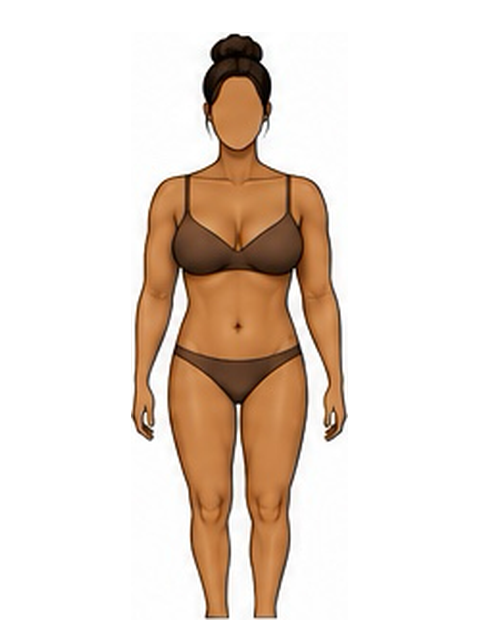
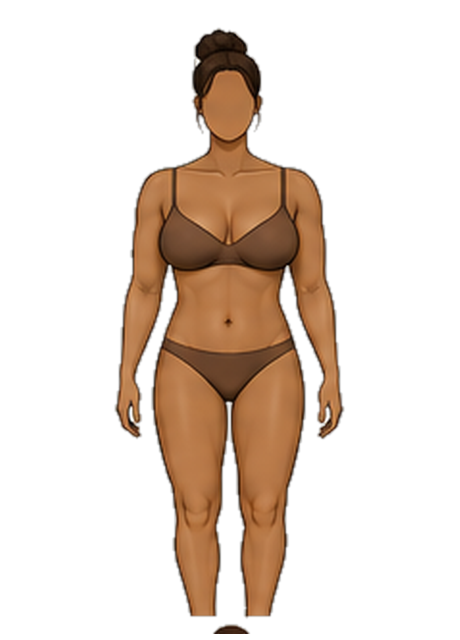
Quiz body types: swipeable carousel + transparent illustrations
Replace the per-item eye/popup with a looping, swipeable carousel so users flow
through all 12 shapes at once (arrows, drag/swipe, dots, keyboard), choosing in
one tap. A center figure shows large with faded neighbor peeks inviting the
swipe; name + description sit beneath; a Choose/Selected button confirms.

Swap the crude chart crops for the supplied high-res figures with the paper
background removed to transparent and normalized to a uniform height, so they
float cleanly on the page. Wording confirmed against the provided sheet.

Claude-Session: https://claude.ai/code/session_01D4oYevb7PMmvXhf1myVK1D

Changed region(s): [[0.2435, 0.0312, 0.7609, 1.0]]

diff --git a/suedesite/components/screens/QuizScreen.tsx b/suedesite/components/screens/QuizScreen.tsx
@@ -31,7 +31,7 @@ const PLUS_SIZES = ['1X', '2X', '3X', '4X', '5X'];
 
 // 12 reference body types (illustrations in /assets/bodytypes). `v` is the
 // proportional descriptor fed to the estimator; `s` is the card sub-label;
-// `desc` is the full description shown in the eyeball preview.
+// `desc` is the full description shown beneath the figure in the carousel.
 const FEMALE_BODY = [
   { v: 'small lean frame with a defined waist; bust and hips modest and balanced', l: 'Lean & defined', s: 'Small frame with a defined waist; modest, balanced bust & hips', img: '/assets/bodytypes/type-01.png', desc: 'Small frame with a defined waist. Bust and hips are modest and balanced.' },
   { v: 'full bust and hips with a defined waist; balanced, distinctly curvy hourglass proportions', l: 'Curvy & defined', s: 'Full bust and hips with a defined waist; balanced and curvy', img: '/assets/bodytypes/type-02.png', desc: 'Full bust and hips with a defined waist. Proportions are balanced and distinctly curvy.' },
@@ -114,6 +114,70 @@ function OptionCard({ active, onClick, label, sublabel }: any) {
   );
 }
 
+// Swipeable, looping gallery of the 12 body-type illustrations — flow through
+// them all with arrows / swipe / dots, then choose in one tap.
+function BodyCarousel({ items, selectedV, onSelect }: any) {
+  const n = items.length;
+  const [idx, setIdx] = React.useState(() => Math.max(0, items.findIndex((o: any) => o.v === selectedV)));
+  const [dir, setDir] = React.useState(1);
+  const drag = React.useRef<any>({ x: 0, active: false });
+  const go = (d: number) => { setDir(d); setIdx((i) => (i + d + n) % n); };
+  const jump = (i: number) => { setDir(i >= idx ? 1 : -1); setIdx(i); };
+
+  React.useEffect(() => { items.forEach((o: any) => { const im = new Image(); im.src = o.img; }); }, []); // eslint-disable-line
+  React.useEffect(() => {
+    const k = (e: any) => { if (e.key === 'ArrowLeft') go(-1); else if (e.key === 'ArrowRight') go(1); };
+    window.addEventListener('keydown', k);
+    return () => window.removeEventListener('keydown', k);
+  }, []); // eslint-disable-line
+
+  const down = (e: any) => { drag.current = { x: e.touches ? e.touches[0].clientX : e.clientX, active: true }; };
+  const up = (e: any) => {
+    if (!drag.current.active) return; drag.current.active = false;
+    const x = e.changedTouches ? e.changedTouches[0].clientX : e.clientX;
+    const dx = x - drag.current.x;
+    if (Math.abs(dx) > 40) go(dx < 0 ? 1 : -1);
+  };
+
+  const cur = items[idx], prev = items[(idx - 1 + n) % n], nxt = items[(idx + 1) % n];
+  const selected = cur.v === selectedV;
+  const noDrag = { draggable: false, onDragStart: (e: any) => e.preventDefault() } as any;
+  const arrow = (side: string): any => ({ position: 'absolute', top: '44%', [side]: 4, transform: 'translateY(-50%)', width: 44, height: 44, borderRadius: '50%', border: `1px solid ${ink(0.15)}`, background: 'var(--white)', cursor: 'pointer', display: 'inline-flex', alignItems: 'center', justifyContent: 'center', color: ink(0.55), zIndex: 3 });
+
+  return (
+    <div>
+      <style>{`@keyframes qfSlideL{from{opacity:0;transform:translateX(46px)}to{opacity:1;transform:translateX(0)}}@keyframes qfSlideR{from{opacity:0;transform:translateX(-46px)}to{opacity:1;transform:translateX(0)}}`}</style>
+      <div onMouseDown={down} onMouseUp={up} onTouchStart={down} onTouchEnd={up}
+        style={{ position: 'relative', height: 360, display: 'flex', alignItems: 'flex-end', justifyContent: 'center', userSelect: 'none', touchAction: 'pan-y', cursor: 'grab', overflow: 'hidden' }}>
+        <img {...noDrag} src={prev.img} alt="" aria-hidden onClick={() => go(-1)} style={{ position: 'absolute', left: '-5%', bottom: 0, height: 220, opacity: 0.2, cursor: 'pointer', zIndex: 0 }} />
+        <img {...noDrag} src={nxt.img} alt="" aria-hidden onClick={() => go(1)} style={{ position: 'absolute', right: '-5%', bottom: 0, height: 220, opacity: 0.2, cursor: 'pointer', zIndex: 0 }} />
+        <button onClick={() => go(-1)} aria-label="Previous body type" style={arrow('left')}><Icon name="arrow-left" size={18} color={ink(0.55)} /></button>
+        <button onClick={() => go(1)} aria-label="Next body type" style={arrow('right')}><Icon name="arrow-right" size={18} color={ink(0.55)} /></button>
+        <img {...noDrag} key={idx} src={cur.img} alt={cur.l}
+          style={{ position: 'relative', height: 344, zIndex: 1, filter: 'drop-shadow(0 22px 34px rgba(20,18,15,0.16))', animation: `${dir >= 0 ? 'qfSlideL' : 'qfSlideR'} .35s var(--ease-out)` }} />
+      </div>
+
+      <div style={{ textAlign: 'center', marginTop: 4 }}>
+        <div style={{ fontSize: 12, letterSpacing: '0.14em', color: ink(0.4) }}>{idx + 1} / {n}</div>
+        <h3 style={{ ...SERIF, fontSize: 26, fontWeight: 400, color: INK, margin: '8px 0 8px' }}>{cur.l}</h3>
+        <p style={{ fontSize: 14, lineHeight: 1.6, color: ink(0.6), margin: '0 auto', maxWidth: 360 }}>{cur.desc}</p>
+      </div>
+
+      <div style={{ display: 'flex', justifyContent: 'center', gap: 7, flexWrap: 'wrap', margin: '18px 0 4px' }}>
+        {items.map((o: any, i: number) => (
+          <button key={i} onClick={() => jump(i)} aria-label={o.l} title={o.l}
+            style={{ width: i === idx ? 22 : 8, height: 8, borderRadius: 999, border: 'none', padding: 0, cursor: 'pointer', background: i === idx ? INK : ink(0.2), transition: 'all var(--dur-base) var(--ease-out)' }} />
+        ))}
+      </div>
+
+      <button onClick={() => onSelect(cur.v)}
+        style={{ width: '100%', marginTop: 18, padding: '16px 24px', border: `1px solid ${INK}`, background: selected ? INK : 'var(--white)', color: selected ? 'var(--white)' : INK, cursor: 'pointer', fontFamily: 'var(--font-body)', fontSize: 13, letterSpacing: '0.15em', textTransform: 'uppercase', display: 'inline-flex', alignItems: 'center', justifyContent: 'center', gap: 10, transition: 'all var(--dur-base) var(--ease-out)' }}>
+        {selected ? <>Selected <Icon name="check" size={16} color="var(--white)" /></> : 'Choose this body type'}
+      </button>
+    </div>
+  );
+}
+
 const Eyebrow = ({ children }: any) => (
   <div style={{ fontSize: 11, letterSpacing: '0.25em', color: ink(0.5), textTransform: 'uppercase', marginBottom: 12 }}>{children}</div>
 );
@@ -141,15 +205,7 @@ export function QuizScreen({ onRoute, authed }: any) {
   const [error, setError] = React.useState<any>(null);
   const [results, setResults] = React.useState<any>(null);
   const [saveStatus, setSaveStatus] = React.useState('idle');
-  const [preview, setPreview] = React.useState<any>(null); // body-type illustration popup
   const fileRef = React.useRef<any>(null);
-
-  React.useEffect(() => {
-    if (!preview) return;
-    const onKey = (e: any) => { if (e.key === 'Escape') setPreview(null); };
-    window.addEventListener('keydown', onKey);
-    return () => window.removeEventListener('keydown', onKey);
-  }, [preview]);
 
   const update = (k, v) => setA((p) => ({ ...p, [k]: v }));
   const toggleMulti = (k, val) => setA((p) => {
@@ -453,22 +509,16 @@ Respond ONLY with a valid JSON object in this exact format, no markdown, no prea
 
           {!loading && !error && stepName === 'body-type' && (
             <div className="qf-fade" style={{ display: 'flex', flexDirection: 'column', gap: 32 }}>
-              <div><Eyebrow>{stepNum('body-type')} — Your body</Eyebrow><H2 mb={12}>Your body type</H2><Sub>Pick the one that best captures both your shape and overall feel.{a.sex === 'female' && <> Tap the <Icon name="eye" size={13} color={ink(0.55)} style={{ verticalAlign: 'middle' }} /> to see an illustrated example.</>}</Sub></div>
-              <div style={{ display: 'grid', gap: 12 }}>
-                {(a.sex === 'female' ? FEMALE_BODY : MALE_BODY).map((o: any) => (
-                  <div key={o.v} style={{ position: 'relative' }}>
-                    <OptionCard active={a.bodyType === o.v} onClick={() => update('bodyType', o.v)} label={o.l} sublabel={o.s} />
-                    {o.img && (
-                      <button onClick={(e) => { e.stopPropagation(); setPreview(o); }} aria-label={`See an example of ${o.l}`} title="See example"
-                        onMouseEnter={(e) => { e.currentTarget.style.borderColor = INK; e.currentTarget.style.color = INK; }}
-                        onMouseLeave={(e) => { e.currentTarget.style.borderColor = ink(0.15); e.currentTarget.style.color = ink(0.55); }}
-                        style={{ position: 'absolute', top: 12, right: 12, width: 34, height: 34, display: 'inline-flex', alignItems: 'center', justifyContent: 'center', background: 'var(--white)', border: `1px solid ${ink(0.15)}`, borderRadius: '50%', cursor: 'pointer', color: ink(0.55), transition: 'all var(--dur-base) var(--ease-out)' }}>
-                        <Icon name="eye" size={17} />
-                      </button>
-                    )}
-                  </div>
-                ))}
-              </div>
+              <div><Eyebrow>{stepNum('body-type')} — Your body</Eyebrow><H2 mb={12}>Your body type</H2><Sub>{a.sex === 'female' ? 'Swipe through the shapes — with arrows, the dots, or by dragging — and choose the one that best captures both your shape and overall feel.' : 'Pick the one that best captures both your shape and overall feel.'}</Sub></div>
+              {a.sex === 'female' ? (
+                <BodyCarousel items={FEMALE_BODY} selectedV={a.bodyType} onSelect={(v: string) => update('bodyType', v)} />
+              ) : (
+                <div style={{ display: 'grid', gap: 12 }}>
+                  {MALE_BODY.map((o: any) => (
+                    <OptionCard key={o.v} active={a.bodyType === o.v} onClick={() => update('bodyType', o.v)} label={o.l} sublabel={o.s} />
+                  ))}
+                </div>
+              )}
             </div>
           )}
 
@@ -644,25 +694,6 @@ Respond ONLY with a valid JSON object in this exact format, no markdown, no prea
           </div>
         )}
       </div>
-
-      {/* Body-type illustration preview — opened by the eye icon */}
-      {preview && (
-        <div onClick={() => setPreview(null)} style={{ position: 'fixed', inset: 0, zIndex: 120, background: 'rgba(20,18,15,0.55)', display: 'flex', alignItems: 'center', justifyContent: 'center', padding: 20 }}>
-          <div onClick={(e) => e.stopPropagation()} style={{ position: 'relative', background: 'var(--white)', width: 'min(420px, 100%)', maxHeight: '92vh', overflowY: 'auto', padding: '30px 28px 28px', boxShadow: '0 30px 70px rgba(16,14,11,0.35)' }}>
-            <button onClick={() => setPreview(null)} aria-label="Close" style={{ position: 'absolute', top: 12, right: 12, width: 36, height: 36, display: 'inline-flex', alignItems: 'center', justifyContent: 'center', background: 'none', border: 'none', cursor: 'pointer', color: ink(0.55) }}>
-              <Icon name="close" size={20} color={ink(0.55)} />
-            </button>
-            <div style={{ display: 'flex', justifyContent: 'center' }}>
-              <img src={preview.img} alt={preview.l} style={{ height: 340, width: 'auto', objectFit: 'contain' }} />
-            </div>
-            <h3 style={{ ...SERIF, fontSize: 24, fontWeight: 400, color: INK, margin: '18px 0 8px', textAlign: 'center' }}>{preview.l}</h3>
-            <p style={{ fontSize: 14, lineHeight: 1.6, color: ink(0.6), margin: '0 auto', textAlign: 'center', maxWidth: 320 }}>{preview.desc}</p>
-            <button onClick={() => { update('bodyType', preview.v); setPreview(null); }} style={primaryBtn({ width: '100%', marginTop: 24 })}>
-              {a.bodyType === preview.v ? 'Selected' : 'Choose this type'} <Icon name="arrow-right" size={16} color="var(--white)" />
-            </button>
-          </div>
-        </div>
-      )}
     </div>
   );
 }
